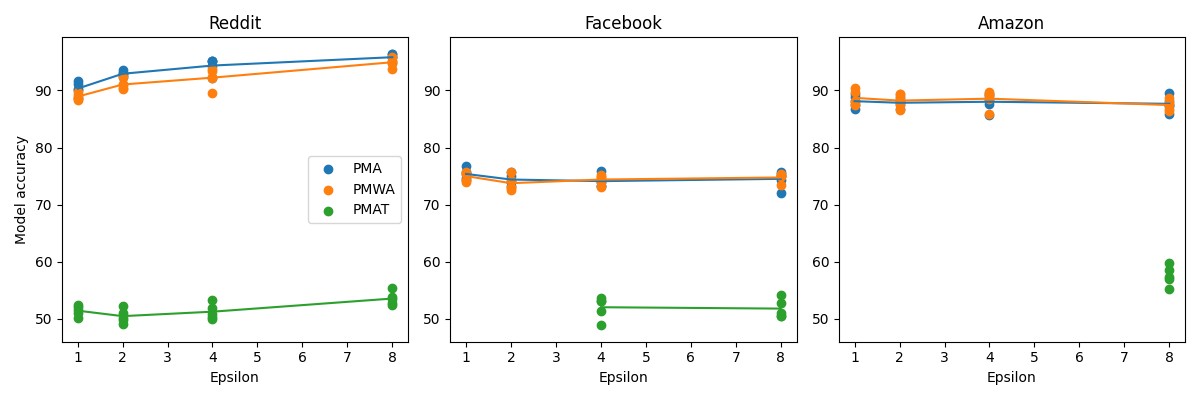
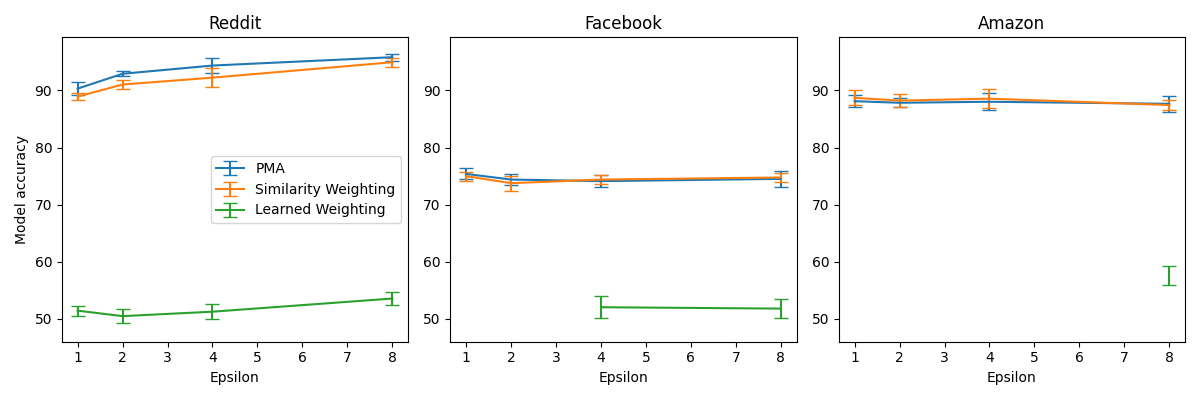
new plot

diff --git a/plot.py b/plot.py
@@ -4,6 +4,12 @@ import matplotlib.pyplot as plt
 import pandas as pd
 import numpy as np
 
+model_name_map = {
+    'pma': 'PMA',
+    'pmwa': 'Similarity Weighting',
+    'pmat': 'Learned Weighting'
+}
+
 def plot_results(filepath):
     file = open(filepath)
     lines = file.readlines()
@@ -49,11 +55,14 @@ def plot_results(filepath):
             agg_func = agg_funcs[j]
             data = df.loc[(df['dataset'] == dataset) & (df['agg_func'] == agg_func)]
             data_means = data[['eps', 'model_acc']].groupby('eps').agg('mean')
+            data_std = data[['eps', 'model_acc']].groupby('eps').agg('std')
             x = data['eps']
             y = data['model_acc']
             y_mean = data_means['model_acc']
-            plt.scatter(x, y, label=agg_func.upper())
-            plt.plot(data_means.index, y_mean)
+            # plt.scatter(x, y, label=model_name_map[agg_func])
+            # plt.scatter(data_means.index, y_mean, label=model_name_map[agg_func])
+            # plt.plot(data_means.index, y_mean)
+            plt.errorbar(data_means.index, y_mean, data_std.to_numpy().flatten(), capsize=5, label=model_name_map[agg_func])
         plt.title(dataset.capitalize())
         plt.xlabel('Epsilon')
         plt.ylim(y_min, y_max)
